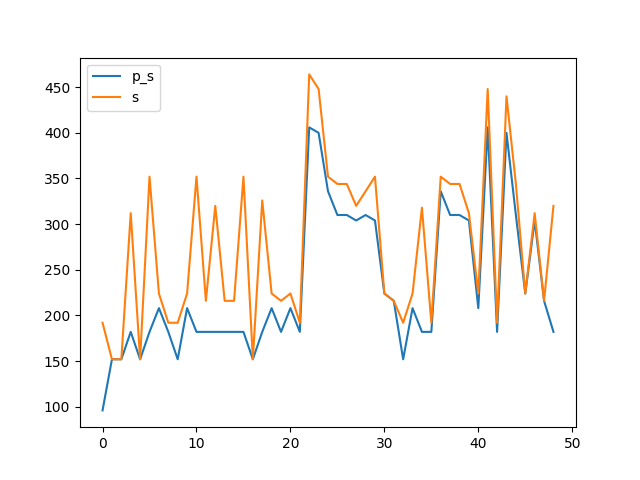
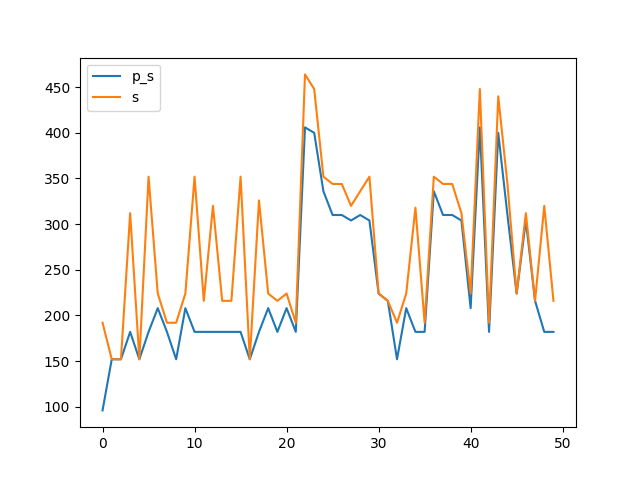
0x0031

diff --git a/benchmark.md b/benchmark.md
@@ -96,16 +96,18 @@ Synthesising 0x002F pexact:216 r=3 exact:216 r=3
 
 Synthesising 0x0030 pexact:182 r=4 exact:320 r=4
 
+Synthesising 0x0031 pexact:182 r=4 exact:216 r=3
+
 ```mermaid
 xychart-beta
     title "Comparison powertwoexact twoexact"
-    x-axis [0, 1, 2, 3, 4, 5, 6, 7, 8, 9, 10, 11, 12, 13, 14, 15, 16, 17, 18, 19, 20, 21, 22, 23, 24, 25, 26, 27, 28, 29, 30, 31, 32, 33, 34, 35, 36, 37, 38, 39, 40, 41, 42, 43, 44, 45, 46, 47, 48]
+    x-axis [0, 1, 2, 3, 4, 5, 6, 7, 8, 9, 10, 11, 12, 13, 14, 15, 16, 17, 18, 19, 20, 21, 22, 23, 24, 25, 26, 27, 28, 29, 30, 31, 32, 33, 34, 35, 36, 37, 38, 39, 40, 41, 42, 43, 44, 45, 46, 47, 48, 49]
     y-axis "Switching Activity" 0-->464
-    line [96, 152, 152, 182, 152, 182, 208, 182, 152, 208, 182, 182, 182, 182, 182, 182, 152, 182, 208, 182, 208, 182, 406, 400, 336, 310, 310, 304, 310, 304, 224, 216, 152, 208, 182, 182, 336, 310, 310, 304, 208, 406, 182, 400, 310, 224, 304, 216, 182]
-    line [192, 152, 152, 312, 152, 352, 224, 192, 192, 224, 352, 216, 320, 216, 216, 352, 152, 326, 224, 216, 224, 192, 464, 448, 352, 344, 344, 320, 336, 352, 224, 216, 192, 224, 318, 192, 352, 344, 344, 312, 224, 448, 192, 440, 344, 224, 312, 216, 320]
-    line [232.81632653061226, 232.81632653061226, 232.81632653061226, 232.81632653061226, 232.81632653061226, 232.81632653061226, 232.81632653061226, 232.81632653061226, 232.81632653061226, 232.81632653061226, 232.81632653061226, 232.81632653061226, 232.81632653061226, 232.81632653061226, 232.81632653061226, 232.81632653061226, 232.81632653061226, 232.81632653061226, 232.81632653061226, 232.81632653061226, 232.81632653061226, 232.81632653061226, 232.81632653061226, 232.81632653061226, 232.81632653061226, 232.81632653061226, 232.81632653061226, 232.81632653061226, 232.81632653061226, 232.81632653061226, 232.81632653061226, 232.81632653061226, 232.81632653061226, 232.81632653061226, 232.81632653061226, 232.81632653061226, 232.81632653061226, 232.81632653061226, 232.81632653061226, 232.81632653061226, 232.81632653061226, 232.81632653061226, 232.81632653061226, 232.81632653061226, 232.81632653061226, 232.81632653061226, 232.81632653061226, 232.81632653061226, 232.81632653061226]
-    line [276.48979591836735, 276.48979591836735, 276.48979591836735, 276.48979591836735, 276.48979591836735, 276.48979591836735, 276.48979591836735, 276.48979591836735, 276.48979591836735, 276.48979591836735, 276.48979591836735, 276.48979591836735, 276.48979591836735, 276.48979591836735, 276.48979591836735, 276.48979591836735, 276.48979591836735, 276.48979591836735, 276.48979591836735, 276.48979591836735, 276.48979591836735, 276.48979591836735, 276.48979591836735, 276.48979591836735, 276.48979591836735, 276.48979591836735, 276.48979591836735, 276.48979591836735, 276.48979591836735, 276.48979591836735, 276.48979591836735, 276.48979591836735, 276.48979591836735, 276.48979591836735, 276.48979591836735, 276.48979591836735, 276.48979591836735, 276.48979591836735, 276.48979591836735, 276.48979591836735, 276.48979591836735, 276.48979591836735, 276.48979591836735, 276.48979591836735, 276.48979591836735, 276.48979591836735, 276.48979591836735, 276.48979591836735, 276.48979591836735]
-    bar [80, 60, 60, 80, 60, 80, 80, 80, 60, 80, 80, 80, 80, 80, 80, 80, 60, 80, 80, 80, 80, 80, 120, 120, 100, 100, 100, 100, 100, 100, 60, 60, 60, 80, 80, 80, 100, 100, 100, 100, 80, 120, 80, 120, 100, 60, 100, 60, 80]
-    bar [80, 60, 60, 80, 60, 80, 60, 60, 60, 60, 80, 60, 80, 60, 60, 80, 60, 80, 60, 60, 60, 60, 100, 100, 80, 80, 80, 80, 80, 80, 60, 60, 60, 60, 80, 60, 80, 80, 80, 80, 60, 100, 60, 100, 80, 60, 80, 60, 80]
+    line [96, 152, 152, 182, 152, 182, 208, 182, 152, 208, 182, 182, 182, 182, 182, 182, 152, 182, 208, 182, 208, 182, 406, 400, 336, 310, 310, 304, 310, 304, 224, 216, 152, 208, 182, 182, 336, 310, 310, 304, 208, 406, 182, 400, 310, 224, 304, 216, 182, 182]
+    line [192, 152, 152, 312, 152, 352, 224, 192, 192, 224, 352, 216, 320, 216, 216, 352, 152, 326, 224, 216, 224, 192, 464, 448, 352, 344, 344, 320, 336, 352, 224, 216, 192, 224, 318, 192, 352, 344, 344, 312, 224, 448, 192, 440, 344, 224, 312, 216, 320, 216]
+    line [231.8, 231.8, 231.8, 231.8, 231.8, 231.8, 231.8, 231.8, 231.8, 231.8, 231.8, 231.8, 231.8, 231.8, 231.8, 231.8, 231.8, 231.8, 231.8, 231.8, 231.8, 231.8, 231.8, 231.8, 231.8, 231.8, 231.8, 231.8, 231.8, 231.8, 231.8, 231.8, 231.8, 231.8, 231.8, 231.8, 231.8, 231.8, 231.8, 231.8, 231.8, 231.8, 231.8, 231.8, 231.8, 231.8, 231.8, 231.8, 231.8, 231.8]
+    line [275.28, 275.28, 275.28, 275.28, 275.28, 275.28, 275.28, 275.28, 275.28, 275.28, 275.28, 275.28, 275.28, 275.28, 275.28, 275.28, 275.28, 275.28, 275.28, 275.28, 275.28, 275.28, 275.28, 275.28, 275.28, 275.28, 275.28, 275.28, 275.28, 275.28, 275.28, 275.28, 275.28, 275.28, 275.28, 275.28, 275.28, 275.28, 275.28, 275.28, 275.28, 275.28, 275.28, 275.28, 275.28, 275.28, 275.28, 275.28, 275.28, 275.28]
+    bar [80, 60, 60, 80, 60, 80, 80, 80, 60, 80, 80, 80, 80, 80, 80, 80, 60, 80, 80, 80, 80, 80, 120, 120, 100, 100, 100, 100, 100, 100, 60, 60, 60, 80, 80, 80, 100, 100, 100, 100, 80, 120, 80, 120, 100, 60, 100, 60, 80, 80]
+    bar [80, 60, 60, 80, 60, 80, 60, 60, 60, 60, 80, 60, 80, 60, 60, 80, 60, 80, 60, 60, 60, 60, 100, 100, 80, 80, 80, 80, 80, 80, 60, 60, 60, 60, 80, 60, 80, 80, 80, 80, 60, 100, 60, 100, 80, 60, 80, 60, 80, 60]
 ```
 
